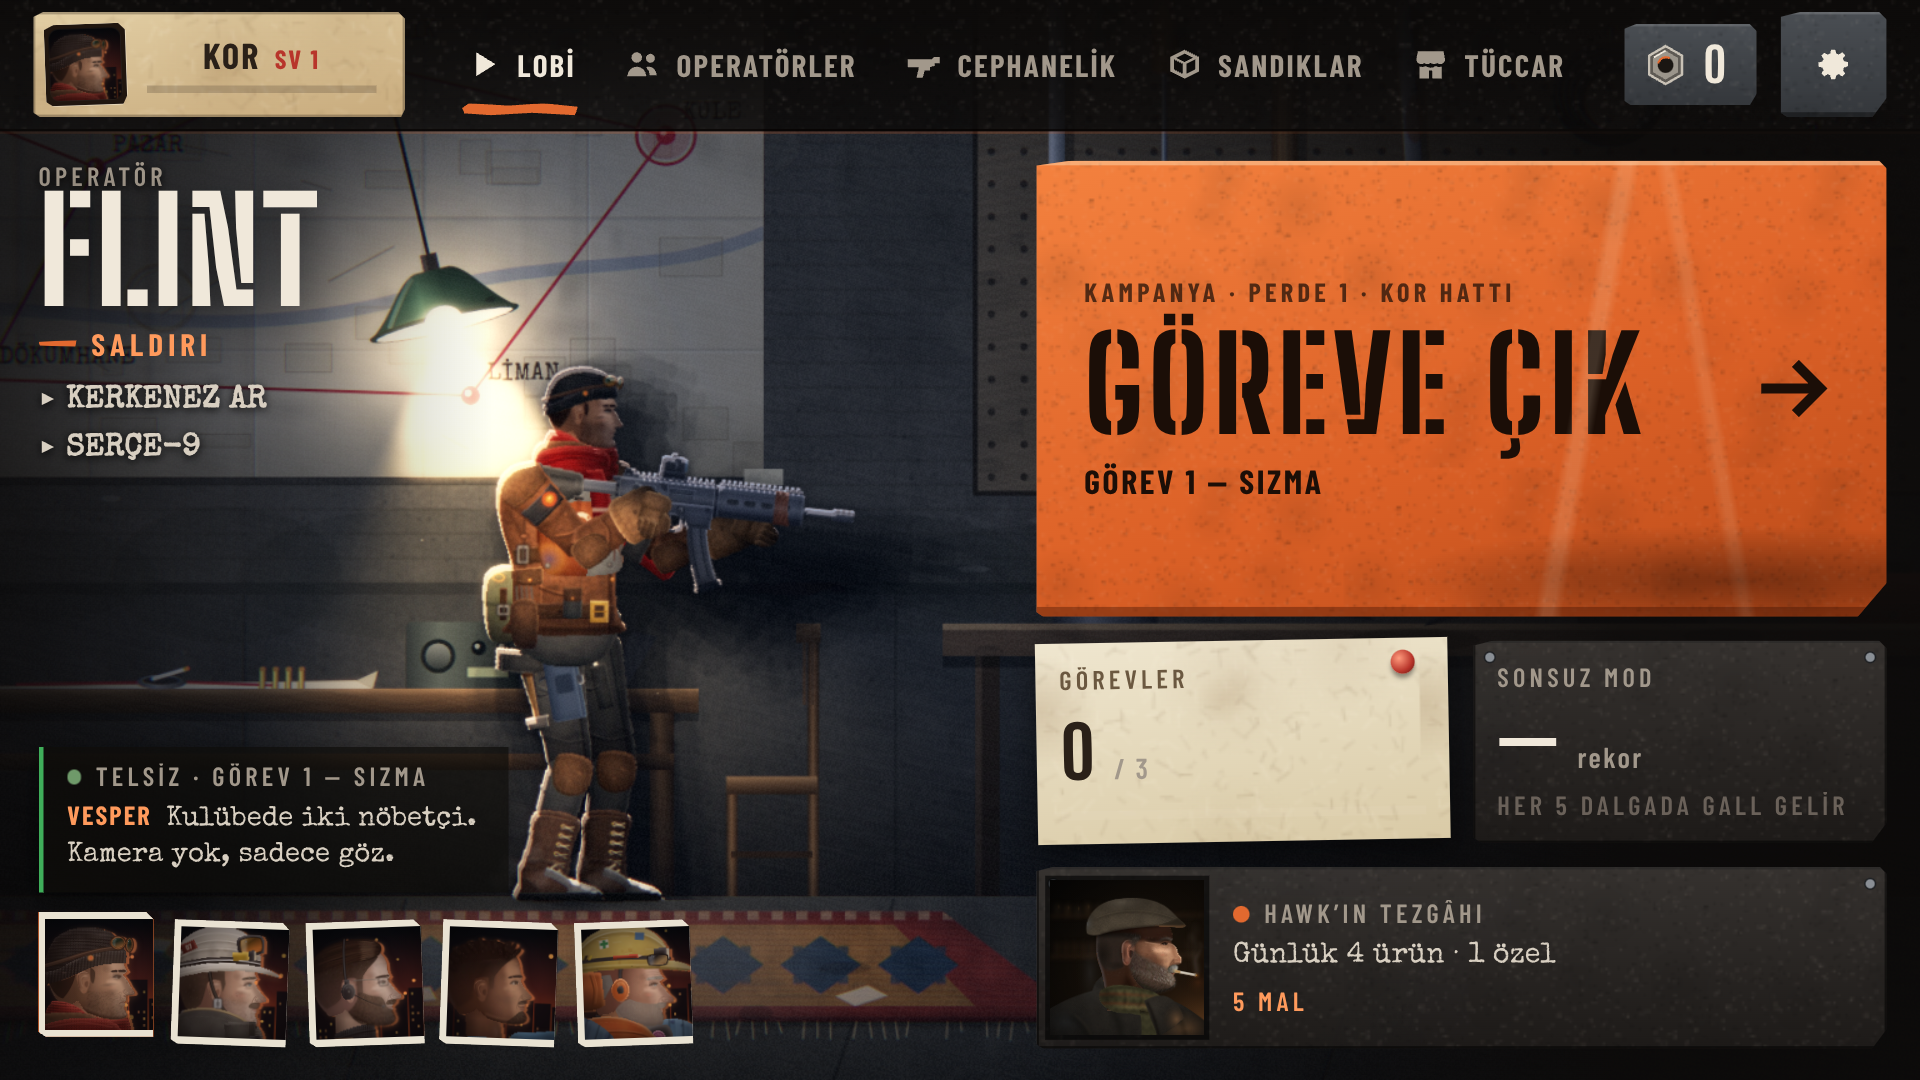
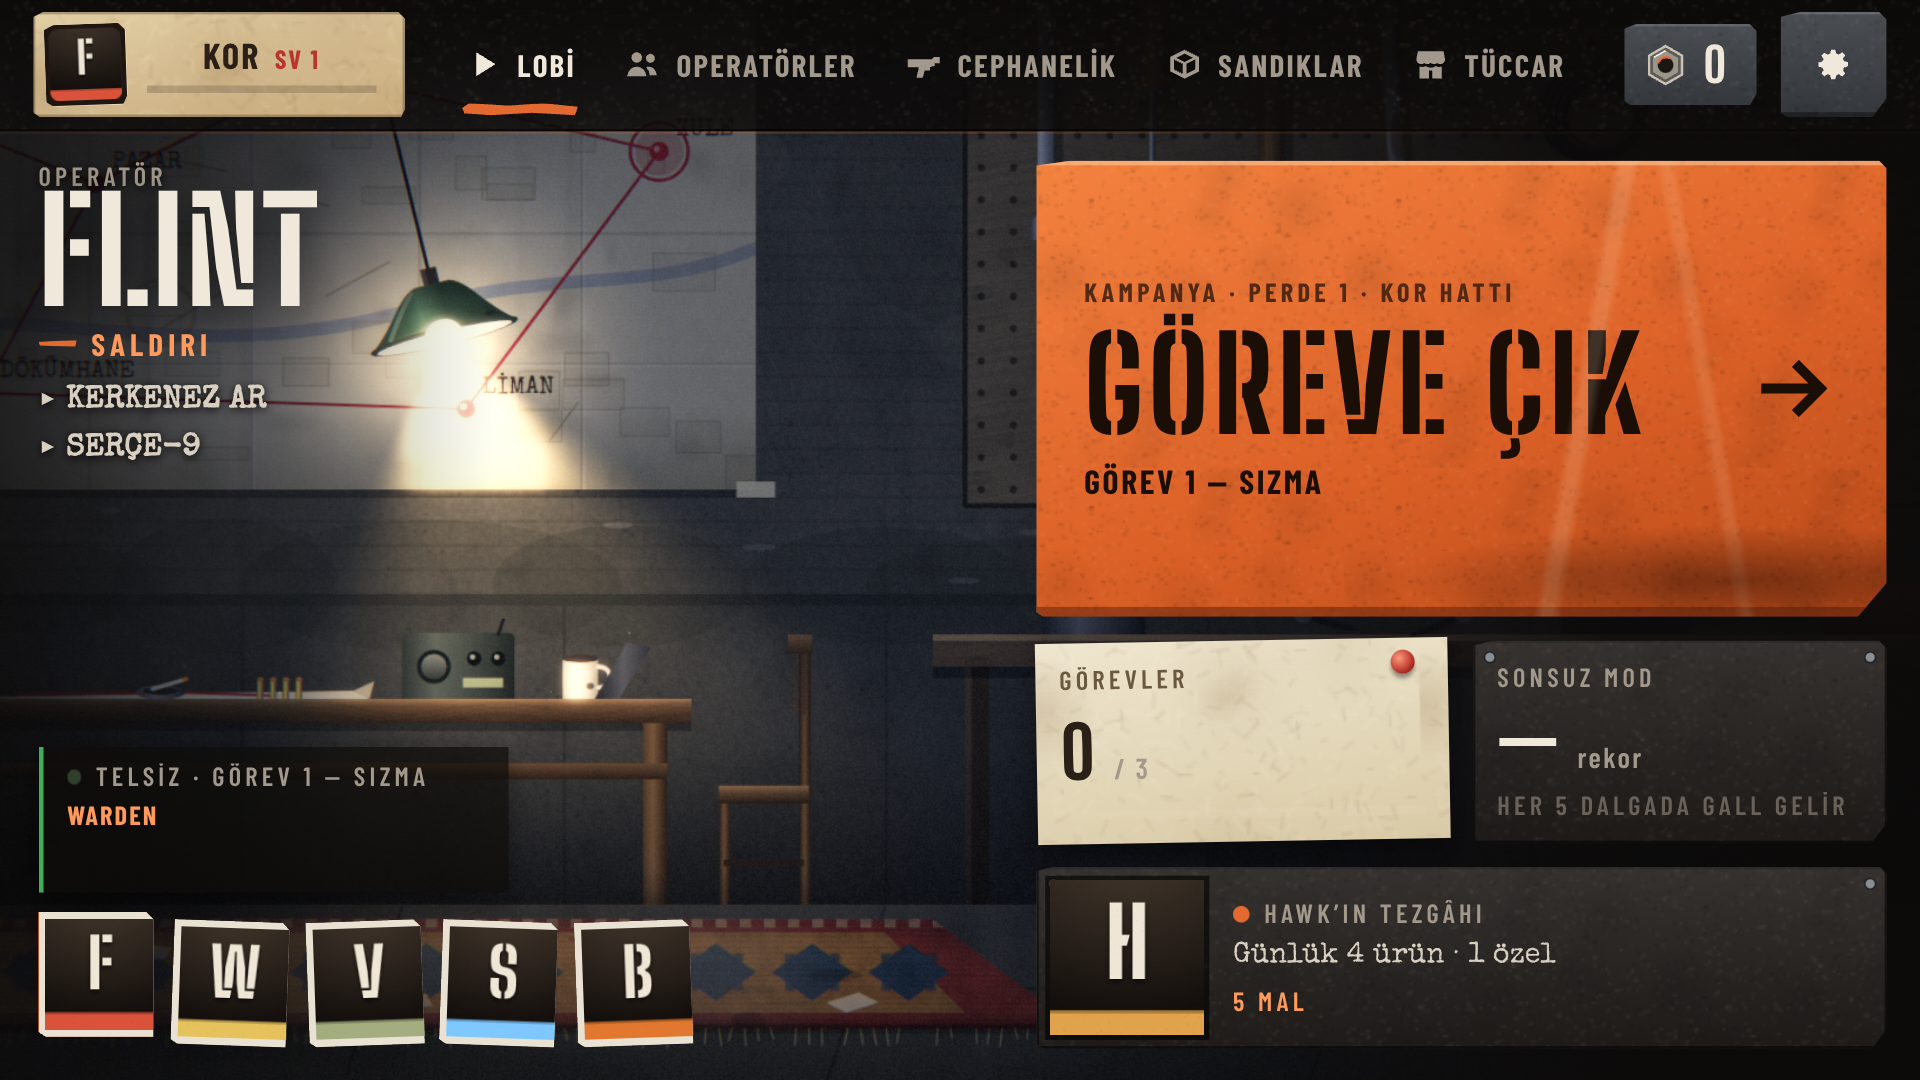
Menus show no characters (docs §10.39)
The character designs are kept to the missions and the films. Outside
them: the menus' basement backdrop no longer draws the operator (no drop,
no dust, no shake on entering the lobby); the painted face portraits are
replaced by badges (the callsign's first letter on a dark plate with the
operator's colour); the trader screen shows HAWK's stall, three seized
crates under a bulb, instead of his face. The store feature graphic shows
the five as black silhouettes rimmed by the furnace's light, in all ten
languages; the lobby and operators store screenshots are retaken. The
painted faces stay for the dev sheets (facePortrait, hawkFace).

Claude-Session: https://claude.ai/code/session_01JSKFimPm6TFEMcTpmhoww4

diff --git a/public/game/js/ui/portraits.js b/public/game/js/ui/portraits.js
@@ -1,6 +1,6 @@
-// KOR — small painted pictures for the menus: operator avatars
-// (head and shoulders, lit like the opening) and weapon side views, painted
-// once and cached.
+// KOR — small painted pictures for the menus: operator badges (the painted
+// faces are kept for the dev sheets: docs §10.39) and weapon side views,
+// painted once and cached.
 import { outlined, setRoot, canvas, rng, cel, fill, stroke, clip, metalOver } from '../art/kit.js';
 import { tone, mat } from '../art/style.js';
 import { drawFigure, solve } from '../art/figure.js';
@@ -25,11 +25,43 @@ function copy(src, cssW, cssH) {
   return c;
 }
 
-// head and shoulders of an operator, `px` CSS pixels square
+// The menus show no faces (docs §10.39): an operator is a badge, the
+// callsign's first letter stencilled on a dark plate with a stripe of their
+// colour. The painted faces are still here (facePortrait) for the dev sheets.
+const BADGE = { vex: ['F', '#d9533a'], hale: ['W', '#e6c25c'], morrow: ['V', '#a3ad7f'], kite: ['S', '#7ec8ff'], brick: ['B', '#e2782f'], hawk: ['H', '#e0a24a'] };
 export function avatar(id, px = 44) {
+  const key = `b:${id}:${px}:${dpr()}`;
+  if (!cache.has(key)) cache.set(key, paintBadge(...(BADGE[id] || ['?', '#a39b8f']), Math.round(px * dpr())));
+  return copy(cache.get(key), px, px);
+}
+// head and shoulders of an operator, as painted for the menus before §10.39
+export function facePortrait(id, px = 44) {
   const key = `a:${id}:${px}:${dpr()}`;
   if (!cache.has(key)) cache.set(key, paintAvatar(id, Math.round(px * dpr())));
   return copy(cache.get(key), px, px);
+}
+function paintBadge(letter, color, size) {
+  const c = canvas(size, size), g = c.getContext('2d');
+  // a soot-dark plate, warmer toward the bottom, a little light from above
+  const bg = g.createLinearGradient(0, 0, 0, size);
+  bg.addColorStop(0, '#221b16'); bg.addColorStop(1, '#100c0a');
+  g.fillStyle = bg; g.fillRect(0, 0, size, size);
+  const lit = g.createRadialGradient(size * 0.5, -size * 0.2, 0, size * 0.5, -size * 0.2, size * 1.1);
+  lit.addColorStop(0, 'rgba(255,214,170,0.14)'); lit.addColorStop(1, 'rgba(255,214,170,0)');
+  g.fillStyle = lit; g.fillRect(0, 0, size, size);
+  // the stripe of the operator's colour along the foot
+  g.fillStyle = color; g.fillRect(0, size * 0.84, size, size * 0.16);
+  g.fillStyle = 'rgba(0,0,0,0.25)'; g.fillRect(0, size * 0.84, size, Math.max(1, size * 0.02));
+  // the letter, stencilled
+  g.fillStyle = '#efe6d6'; g.textAlign = 'center'; g.textBaseline = 'middle';
+  g.font = `800 ${Math.round(size * 0.62)}px 'Big Shoulders Stencil', 'Big Shoulders', sans-serif`;
+  g.shadowColor = 'rgba(0,0,0,0.6)'; g.shadowBlur = size * 0.04; g.shadowOffsetY = size * 0.02;
+  g.fillText(letter, size * 0.5, size * 0.44);
+  g.shadowColor = 'transparent';
+  // grain, so it sits with the paper and paint around it
+  const r = rng(letter.charCodeAt(0) * 97 + size);
+  for (let i = 0; i < size * size * 0.02; i++) { g.fillStyle = r() < 0.5 ? 'rgba(255,255,255,0.035)' : 'rgba(0,0,0,0.08)'; g.fillRect(r() * size, r() * size, 1, 1); }
+  return c;
 }
 
 // Lit like the opening: the burning city behind, the fires low on the right,
@@ -115,7 +147,33 @@ export function crateArt(color, px = 96) {
 }
 
 // HAWK at his stall, `px` CSS pixels square
-export function hawkPic(px = 64) {
+// HAWK's stall for the trader screen (no face, docs §10.39): seized crates
+// stacked under a bare bulb, the market's dark behind
+export function stallPic(px = 360) {
+  const key = `s:${px}:${dpr()}`;
+  if (!cache.has(key)) {
+    // wide, like the card it sits in; the crates to the right, clear of the name
+    const W = Math.round(px * dpr()), H = Math.round(W * 0.56), c = canvas(W, H), g = c.getContext('2d');
+    const bg = g.createLinearGradient(0, 0, 0, H); bg.addColorStop(0, '#120e0c'); bg.addColorStop(1, '#261b13');
+    g.fillStyle = bg; g.fillRect(0, 0, W, H);
+    const bx = W * 0.7, by = H * 0.14;
+    const bulb = g.createRadialGradient(bx, by, 0, bx, by, W * 0.55);
+    bulb.addColorStop(0, 'rgba(255,196,120,0.5)'); bulb.addColorStop(0.35, 'rgba(255,150,70,0.15)'); bulb.addColorStop(1, 'rgba(255,150,70,0)');
+    g.fillStyle = bulb; g.fillRect(0, 0, W, H);
+    g.strokeStyle = 'rgba(30,24,20,0.9)'; g.lineWidth = Math.max(1, W * 0.004); g.beginPath(); g.moveTo(bx, 0); g.lineTo(bx, by - W * 0.02); g.stroke();
+    g.fillStyle = '#ffe2b0'; g.beginPath(); g.ellipse(bx, by, W * 0.013, W * 0.018, 0, 0, Math.PI * 2); g.fill();
+    // three seized crates: two on the floor, one on top
+    const crate = (band, x, y, k) => { const m = Math.round(W * k), cc = canvas(m, m); paintCrate(cc.getContext('2d'), m, { band, label: CRATE_LABEL[band] }); g.drawImage(cc, x * W - m / 2, y * H - m / 2); };
+    crate('#a39b8f', 0.56, 0.66, 0.36); crate('#6aa6d6', 0.84, 0.68, 0.34); crate('#e6a93c', 0.7, 0.4, 0.32);
+    cache.set(key, c);
+  }
+  const c = cache.get(key);
+  return copy(c, px, Math.round(px * c.height / c.width));
+}
+// HAWK in the menus: a badge like the operators' (docs §10.39); the painted
+// face stays for the dev sheets (hawkFace)
+export function hawkPic(px = 64) { return avatar('hawk', px); }
+export function hawkFace(px = 64) {
   const key = `h:${px}:${dpr()}`;
   if (!cache.has(key)) { const n = Math.round(px * dpr()), c = canvas(n, n); paintHawk(c.getContext('2d'), n, 1); cache.set(key, c); }
   return copy(cache.get(key), px, px);

diff --git a/public/game/js/game/showcase.js b/public/game/js/game/showcase.js
@@ -1,10 +1,10 @@
 // KOR — the live backdrop behind the menus.
 //
 // The cells' basement (docs §10.9): the lamp swinging over the map table,
-// the stove, the radio's light; a slow camera drift, and the selected
-// operator standing at low ready with their loadout, breathing and glancing
-// around. Switching operators drops the new one in with a landing; the menus
-// only say where on screen the operator should stand (focus) and how close.
+// the stove, the radio's light; a slow camera drift. The selected operator
+// is kept as the camera's mark but not drawn: outside the missions the
+// menus show the room, not the characters (docs §10.39). The menus only say
+// where on screen that mark should sit (focus) and how close.
 import { M2Scene } from '../test/m2scene.js';
 import { Level, T } from '../phys/level.js';
 import { Mover } from '../phys/mover.js';
@@ -39,6 +39,7 @@ export class Showcase extends M2Scene {
     // dust turning in the lamp's light; the lamp swings, harder after a knock
     this.motes = new ParticleSystem(eng.gl, eng.atlas, eng.atlas.get('fx.dot'), 160, { additive: true });
     this.swing = 0.24;
+    this.hidePlayer = true;
     this.setOperator('vex', null);
   }
 
@@ -51,8 +52,7 @@ export class Showcase extends M2Scene {
     this.opId = id; this.landed = false; this.look = 0;
   }
 
-  // after the opening: start wide and high so the camera settles in as the
-  // operator (set next) drops from above the frame
+  // after the opening: start wide and high so the camera settles into the room
   entrance() { this.e.camera.viewH = 168; this.cam.y -= 30; this.swing = 0.5; }
 
   // the lamp: its angle and the bulb's place (the pivot at the ceiling)
@@ -79,7 +79,7 @@ export class Showcase extends M2Scene {
     P.preStep();
     m.step(dt, { moveX: 0, face: 1 });
     P.postStep(dt, this.L);
-    if (m.ev.land && !this.landed) { const hard = m.ev.land > 320; this.landed = true; this.puff(m.x, m.y, hard ? 14 : 8, hard ? 1.3 : 0.9); this.e.camera.addShake(hard ? 0.18 : 0.08); }
+    if (m.ev.land && !this.landed) { const hard = m.ev.land > 320; this.landed = true; if (!this.hidePlayer) { this.puff(m.x, m.y, hard ? 14 : 8, hard ? 1.3 : 0.9); this.e.camera.addShake(hard ? 0.18 : 0.08); } }
     this.swing += (0.24 - this.swing) * Math.min(1, dt * 0.25);
     // dust in the lamp's cone, the cigarette's smoke off the ashtray
     const [lx, ly] = this.lampAt();

diff --git a/public/game/js/test/m2scene.js b/public/game/js/test/m2scene.js
@@ -204,7 +204,8 @@ export class M2Scene {
     const chars = this._chars || (this._chars = []);
     chars.length = 0;
     for (const c of this.enemies) if (!this.offView(c.rag ? c.rx : c.m.x, 130)) chars.push(c);
-    chars.push(this.player);
+    // the menus' backdrop keeps its operator out of the picture (docs §10.39)
+    if (!this.hidePlayer) chars.push(this.player);
     for (const c of chars) c.prepare(alpha);
     this.cr.begin(chars);
     // lights
@@ -242,7 +243,7 @@ export class M2Scene {
     if (out) {
       this.life.step(t, cam);
       // boots coming down on the wet street splash
-      for (const c of [...this.enemies, this.player]) if (c && c.anim.plant) { this.life.kick(c.rx + c.facing * (c.anim.plant === 1 ? -1.5 : 2.5), c.ry); c.anim.plant = 0; }
+      for (const c of [...this.enemies, this.hidePlayer ? null : this.player]) if (c && c.anim.plant) { this.life.kick(c.rx + c.facing * (c.anim.plant === 1 ? -1.5 : 2.5), c.ry); c.anim.plant = 0; }
       layer('sky', this.viewFor('sky', PLX.sky, cam.x));
       const vFar = this.viewFor('far', PLX.far, 300);
       layer('far', vFar);

diff --git a/public/game/js/ui/screens/trader.js b/public/game/js/ui/screens/trader.js
@@ -4,7 +4,7 @@
 import { h, svg, press, popIn, ui, deny, toast } from '../kit.js';
 import { t, num } from '../i18n.js';
 import { hubbar, refreshCur } from './common.js';
-import { weaponPic, hawkPic, crateArt } from '../portraits.js';
+import { weaponPic, stallPic, crateArt } from '../portraits.js';
 import { WEAPONS } from '../../art/weapons/index.js';
 import { CRATES } from '../data.js';
 import { SKIN, traderStock, traderBuy, traderSold, owns, hasSkin } from '../../core/economy.js';
@@ -12,7 +12,7 @@ import { SKIN, traderStock, traderBuy, traderSold, owns, hasSkin } from '../../c
 export const trader = {
   mount(ctx) {
     const left = h('div.card.cut.hawk-card',
-      h('div.portrait', hawkPic(360), h('div.h1', 'HAWK')),
+      h('div.portrait', stallPic(360), h('div.h1', 'HAWK')),
       h('div.eyebrow.accent', h('span.dot'), t('trader.k')),
       h('p.body.typed', { style: { margin: 0, fontSize: '12px' } }, t('trader.bio')),
       h('div.quote', t('trader.line')));

diff --git a/public/game/dev/sheet.js b/public/game/dev/sheet.js
@@ -206,7 +206,7 @@ if (what === 'valilik') {
 }
 if (what === 'avatars') {
   // the menu portraits at the sizes the menus use, and large
-  const { avatar } = await import('../js/ui/portraits.js');
+  const { facePortrait: avatar } = await import('../js/ui/portraits.js');
   for (const px of [30, 46, 64, 160]) { const r = row(); for (const id of ['vex', 'hale', 'morrow', 'kite', 'brick']) r.appendChild(avatar(id, px)); }
 }
 if (what === 'weapons') {

diff --git a/docs/README.md b/docs/README.md
@@ -63,7 +63,7 @@ boss; VASQUEZ, Vorsa's commander in the tower, is the final one.
 | [`KOR_STORY_CINEMATIC.md`](KOR_STORY_CINEMATIC.md) | Index of the design sections (§1–§10.x) and where each lives |
 | [`design/1-hikaye.md`](design/1-hikaye.md) | Story bible (§1): world, timeline, characters, the ten missions, writing rules |
 | [`design/2-sinematik.md`](design/2-sinematik.md) | Prologue, opening and mission films; the cinematic rig; acceptance rules; the still series (§2–§8) |
-| [`design/3-karakterler.md`](design/3-karakterler.md) | Character design and every revision of characters, faces and heads (§9, §10.1, §10.10–11, §10.14–16, §10.21–25, §10.29, §10.34–37) |
+| [`design/3-karakterler.md`](design/3-karakterler.md) | Character design and every revision of characters, faces and heads (§9, §10.1, §10.10–11, §10.14–16, §10.21–25, §10.29, §10.34–37, §10.39) |
 | [`design/4-dunya-ve-gorevler.md`](design/4-dunya-ve-gorevler.md) | Obstacles, interface, city, places, missions, the lobby, the realism pass, weapons, act 2, character separation, flat missions, cover, lobby, ten languages, IP review (§10.2–9, §10.12–13, §10.30–33, §10.38) |
 | [`design/5-teknik-ve-performans.md`](design/5-teknik-ve-performans.md) | Phone performance, frame pacing, quality, ragdolls, measurements (§10.17–20, §10.26–28 and later technical sections) |
 | [`KOR_YAPI.md`](KOR_YAPI.md) | How KOR replaced Cinderfall in this repository and on the store |

diff --git a/docs/design/3-karakterler.md b/docs/design/3-karakterler.md
@@ -702,3 +702,24 @@ Geliştirici kısayolu: `index.html?scene=mission&m=m2&op=kite` görevi
 seçilen operatörle açar.
 
 Çizim sürümü `d4-64`.
+
+### 10.39 Menülerde karakter yok
+
+Karakter tasarımları beğenilmedi; karar: **oyun dışında karakterler öne
+çıkmaz.** Görevlerde ve filmlerde her şey aynı kalır.
+
+- Lobi ve öbür menülerin arkasındaki bodrum sahnesi operatörü çizmiyor
+  (`game/showcase.js hidePlayer`): lamba, harita, soba görünür. Seçilen
+  operatör yalnız kameranın işareti olarak duruyor; lobiye girişte
+  operatörün düşüşü, toz bulutu ve sarsıntı da yok.
+- Yüz resimleri yerine rozet (`ui/portraits.js avatar`): koyu bir plaka
+  üstünde çağrı adının ilk harfi (F, W, V, S, B; HAWK için H), altta
+  operatörün rengi. Lobideki seçim, üst çubuk, operatör listesi ve dosya,
+  hazırlık ekranı ve profil bu rozeti kullanıyor.
+- Tüccar ekranında HAWK'ın yüzü yerine tezgâh: çıplak ampulün altında
+  istiflenmiş üç sandık (`stallPic`).
+- Mağaza kapağında beş operatör siyah siluet, arkalarındaki fırının kor
+  ışığıyla çevrelenmiş (ayrıntı görünmüyor). Lobi ve operatörler ekran
+  görüntüleri yeniden alındı; görev görüntüleri oyun içi olduğu için kaldı.
+- Boyanmış yüzler silinmedi: `facePortrait` ve `hawkFace` geliştirici
+  sayfalarında (`dev/_avatars.html`, `sheet.html?what=avatars`) duruyor.

diff --git a/docs/KOR_STORY_CINEMATIC.md b/docs/KOR_STORY_CINEMATIC.md
@@ -77,6 +77,7 @@ Bu dosya eskiden tek parça bir belgeydi (1.449 satır). Konularına göre beş 
 | 10.36 | Skye ve Vesper: işaretlenen yerler | [3-karakterler](design/3-karakterler.md#1036-skye-ve-vesper-işaretlenen-yerler) |
 | 10.37 | Vesper ve Skye: erkek, sıfırdan | [3-karakterler](design/3-karakterler.md#1037-vesper-ve-skye-erkek-sıfırdan) |
 | 10.38 | Kapak, lobi, on dil, telif taraması | [4-dunya-ve-gorevler](design/4-dunya-ve-gorevler.md#1038-kapak-lobi-on-dil-telif-taraması) |
+| 10.39 | Menülerde karakter yok | [3-karakterler](design/3-karakterler.md#1039-menülerde-karakter-yok) |
 
 Giriş notu (eski belgenin başı):
 
